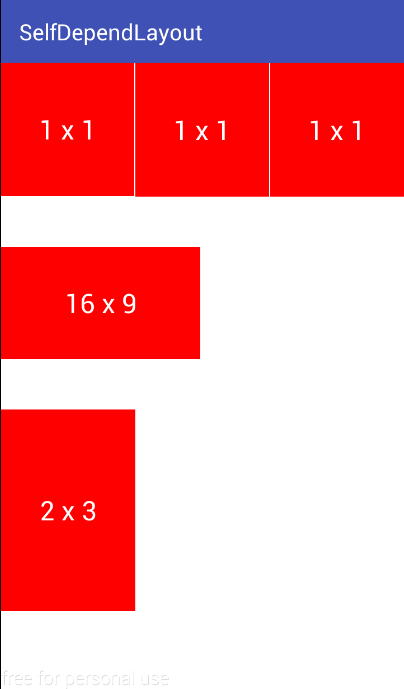
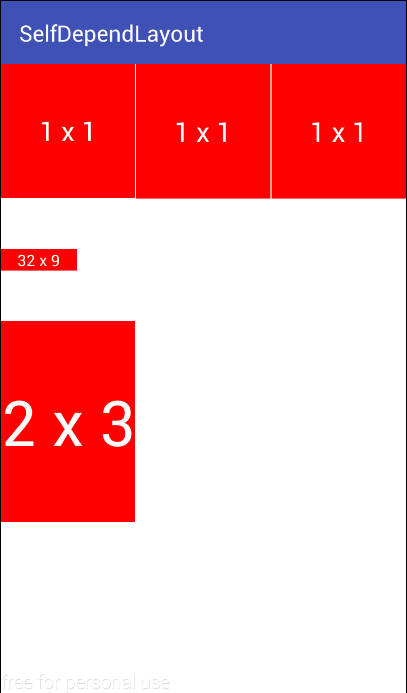
update demo.png

diff --git a/README.md b/README.md
@@ -31,24 +31,30 @@ dependencies {
     tools:context="net.lucode.hackware.demo.selfdependlayout.MainActivity">
 
     <net.lucode.hackware.selfdependlayout.SelfDependLayout
-        android:layout_width="wrap_content"
-        android:layout_height="wrap_content"    // ignore what ever you set
-        android:layout_marginTop="45dp"
-        app:dependWidth="true"
-        app:dependencyRatio="1.5">  // layout_height = layout_width * 1.5
+        android:layout_width="wrap_content" // ignore what ever you set
+        android:layout_height="0dp"
+        android:layout_weight="1"
+        app:dependWidth="false" // layout_width depend on layout_height
+        app:dependencyRatio="0.25"> // layout_width = layout_height / 4
 
         <TextView
-            android:layout_width="120dp"
+            android:layout_width="match_parent" // must be "match_parent"
             android:layout_height="match_parent"    // must be "match_parent"
             android:background="#f00"
             android:gravity="center"
-            android:text="2 x 3"
+            android:text="1 x 4"
             android:textColor="#ffffff"
             android:textSize="24dp" />
 
     </net.lucode.hackware.selfdependlayout.SelfDependLayout>
 
+    <View
+        android:layout_width="match_parent"
+        android:layout_height="200dp"
+        android:background="#0f0" />
+
 </LinearLayout>
+
 ```
 
 # License
